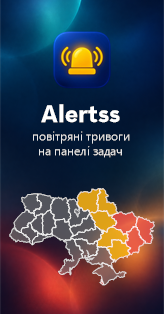
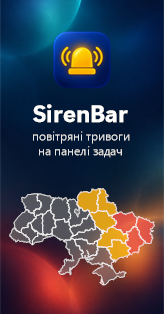
Перейменування: Alertss → SirenBar (0.2.0)
Нова назва exe, вікон, автозапуску, ідентифікатора сповіщень, папок
встановлення й налаштувань. При першому запуску програма переносить
конфіг (область, токен) і автозапуск зі старої назви; інсталятор
тихо видаляє стару Alertss.

Changed region(s): [[0.1829, 0.3153, 0.7927, 0.4013]]

diff --git a/src/autostart.rs b/src/autostart.rs
@@ -1,4 +1,4 @@
-//! "Run at Windows startup" via HKCU\Software\Microsoft\Windows\CurrentVersion\Run, value "Alertss".
+//! "Run at Windows startup" via HKCU\Software\Microsoft\Windows\CurrentVersion\Run, value "SirenBar".
 
 use windows::core::w;
 use windows::Win32::System::Registry::*;
@@ -9,7 +9,7 @@ pub fn is_enabled() -> bool {
         RegGetValueW(
             HKEY_CURRENT_USER,
             w!("Software\\Microsoft\\Windows\\CurrentVersion\\Run"),
-            w!("Alertss"),
+            w!("SirenBar"),
             RRF_RT_REG_SZ,
             None,
             None,
@@ -31,7 +31,7 @@ pub fn set_enabled(on: bool) {
                     let _ = RegSetKeyValueW(
                         HKEY_CURRENT_USER,
                         w!("Software\\Microsoft\\Windows\\CurrentVersion\\Run"),
-                        w!("Alertss"),
+                        w!("SirenBar"),
                         REG_SZ.0,
                         Some(utf16.as_ptr() as *const _),
                         (utf16.len() * std::mem::size_of::<u16>()) as u32,
@@ -42,8 +42,35 @@ pub fn set_enabled(on: bool) {
             let _ = RegDeleteKeyValueW(
                 HKEY_CURRENT_USER,
                 w!("Software\\Microsoft\\Windows\\CurrentVersion\\Run"),
-                w!("Alertss"),
+                w!("SirenBar"),
             );
         }
+    }
+}
+
+/// The app used to be called Alertss: drop its autostart value and its notification id,
+/// and keep autostart on under the new name if the old one had it.
+pub fn migrate_old() {
+    unsafe {
+        let mut size = 0u32;
+        let had = RegGetValueW(
+            HKEY_CURRENT_USER,
+            w!("Software\\Microsoft\\Windows\\CurrentVersion\\Run"),
+            w!("Alertss"),
+            RRF_RT_REG_SZ,
+            None,
+            None,
+            Some(&mut size),
+        )
+        .is_ok();
+        if had {
+            let _ = RegDeleteKeyValueW(
+                HKEY_CURRENT_USER,
+                w!("Software\\Microsoft\\Windows\\CurrentVersion\\Run"),
+                w!("Alertss"),
+            );
+            set_enabled(true);
+        }
+        let _ = RegDeleteTreeW(HKEY_CURRENT_USER, w!("Software\\Classes\\AppUserModelId\\Alertss.Widget"));
     }
 }

diff --git a/src/notify.rs b/src/notify.rs
@@ -6,17 +6,17 @@ use windows::UI::Notifications::{ToastNotification, ToastNotificationManager};
 use windows::Win32::System::Registry::*;
 use windows::Win32::UI::Shell::SetCurrentProcessExplicitAppUserModelID;
 
-const DISPLAY_NAME: &str = "Тривоги";
+const DISPLAY_NAME: &str = "SirenBar";
 
-/// Register AUMID "Alertss.Widget" under HKCU\Software\Classes\AppUserModelId\Alertss.Widget
-/// (DisplayName = "Тривоги") and call SetCurrentProcessExplicitAppUserModelID. Errors ignored.
+/// Register AUMID "SirenBar.Widget" under HKCU\Software\Classes\AppUserModelId\SirenBar.Widget
+/// (DisplayName = "SirenBar") and call SetCurrentProcessExplicitAppUserModelID. Errors ignored.
 pub fn init() {
     unsafe {
         // Write DisplayName value
         let display_name_utf16: Vec<u16> = DISPLAY_NAME.encode_utf16().chain(std::iter::once(0)).collect();
         let _ = RegSetKeyValueW(
             HKEY_CURRENT_USER,
-            w!("Software\\Classes\\AppUserModelId\\Alertss.Widget"),
+            w!("Software\\Classes\\AppUserModelId\\SirenBar.Widget"),
             w!("DisplayName"),
             REG_SZ.0,
             Some(display_name_utf16.as_ptr() as *const _),
@@ -25,7 +25,7 @@ pub fn init() {
     }
 
     // Set the AUMID for the process
-    let _ = unsafe { SetCurrentProcessExplicitAppUserModelID(w!("Alertss.Widget")) };
+    let _ = unsafe { SetCurrentProcessExplicitAppUserModelID(w!("SirenBar.Widget")) };
 }
 
 /// Show a toast. `sound` = false -> silent. Must not panic; errors ignored.
@@ -51,7 +51,7 @@ pub fn show(title: &str, body: &str, sound: bool) {
         xml_doc.LoadXml(&HSTRING::from(&toast_xml))?;
 
         let toast = ToastNotification::CreateToastNotification(&xml_doc)?;
-        let notifier = ToastNotificationManager::CreateToastNotifierWithId(&HSTRING::from("Alertss.Widget"))?;
+        let notifier = ToastNotificationManager::CreateToastNotifierWithId(&HSTRING::from("SirenBar.Widget"))?;
         notifier.Show(&toast)?;
 
         Ok(())

diff --git a/src/config.rs b/src/config.rs
@@ -1,4 +1,4 @@
-//! Persistent settings in %APPDATA%\alertss\config.json.
+//! Persistent settings in %APPDATA%\SirenBar\config.json.
 
 use std::fs;
 use std::path::PathBuf;
@@ -53,7 +53,7 @@ impl Config {
 }
 
 impl Config {
-    /// Full path of the config file (%APPDATA%\alertss\config.json).
+    /// Full path of the config file (%APPDATA%\SirenBar\config.json).
     pub fn path() -> PathBuf {
         config_path().unwrap_or_else(|| PathBuf::from("config.json"))
     }
@@ -61,6 +61,18 @@ impl Config {
 
 fn config_path() -> Option<PathBuf> {
     std::env::var("APPDATA").ok().map(|appdata| {
-        PathBuf::from(appdata).join("alertss").join("config.json")
+        PathBuf::from(appdata).join("SirenBar").join("config.json")
     })
+}
+
+/// The app used to be called Alertss: carry its settings (region, token) over once.
+pub fn migrate_old() {
+    let (Some(new), Ok(appdata)) = (config_path(), std::env::var("APPDATA")) else { return };
+    let old = PathBuf::from(appdata).join("alertss").join("config.json");
+    if !new.exists() && old.exists() {
+        if let Some(dir) = new.parent() {
+            let _ = fs::create_dir_all(dir);
+        }
+        let _ = fs::copy(&old, &new);
+    }
 }

diff --git a/src/main.rs b/src/main.rs
@@ -37,7 +37,7 @@ fn main() {
 
     unsafe {
         // Single instance.
-        let _mutex = CreateMutexW(None, true, w!("Local\\AlertssTaskbarWidget"));
+        let _mutex = CreateMutexW(None, true, w!("Local\\SirenBarTaskbarWidget"));
         if GetLastError() == ERROR_ALREADY_EXISTS {
             return;
         }
@@ -45,11 +45,13 @@ fn main() {
         let _ = SetProcessDpiAwarenessContext(DPI_AWARENESS_CONTEXT_PER_MONITOR_AWARE_V2);
         let _ = CoInitializeEx(None, COINIT_APARTMENTTHREADED);
 
+        config::migrate_old();
+        autostart::migrate_old();
         APP.with(|a| *a.borrow_mut() = Some(App::new(config::Config::load())));
         notify::init();
 
         let hinstance: HINSTANCE = GetModuleHandleW(None).unwrap().into();
-        let class = w!("AlertssMain");
+        let class = w!("SirenBarMain");
         let wc = WNDCLASSW {
             lpfnWndProc: Some(main_wndproc),
             hInstance: hinstance,
@@ -63,7 +65,7 @@ fn main() {
         let main = CreateWindowExW(
             WINDOW_EX_STYLE(WS_EX_TOOLWINDOW.0),
             class,
-            w!("Alertss"),
+            w!("SirenBar"),
             WS_POPUP,
             0,
             0,

diff --git a/src/flyout.rs b/src/flyout.rs
@@ -155,7 +155,7 @@ fn open() {
 fn create_window() -> Option<HWND> {
     unsafe {
         let hinstance: HINSTANCE = GetModuleHandleW(None).ok()?.into();
-        let class = w!("AlertssFlyout");
+        let class = w!("SirenBarFlyout");
         let wc = WNDCLASSW {
             lpfnWndProc: Some(wndproc),
             hInstance: hinstance,
@@ -167,7 +167,7 @@ fn create_window() -> Option<HWND> {
         let h = CreateWindowExW(
             WS_EX_TOOLWINDOW | WS_EX_TOPMOST,
             class,
-            w!("Alertss"),
+            w!("SirenBar"),
             WS_POPUP | WS_THICKFRAME,
             0,
             0,

diff --git a/build.rs b/build.rs
@@ -8,7 +8,7 @@ fn main() {
     let gnu = std::env::var("CARGO_CFG_TARGET_ENV").as_deref() == Ok("gnu");
     if std::env::var_os("CARGO_CFG_WINDOWS").is_some() && !gnu {
         embed_manifest(
-            new_manifest("Alertss.Widget").dpi_awareness(DpiAwareness::PerMonitorV2),
+            new_manifest("SirenBar.Widget").dpi_awareness(DpiAwareness::PerMonitorV2),
         )
         .expect("unable to embed manifest");
     }

diff --git a/src/widget.rs b/src/widget.rs
@@ -28,7 +28,7 @@ use crate::state::{short_region, with_app, Level, Status};
 use crate::icons::{self, Icon};
 use crate::{theme, util};
 
-const CLASS_NAME: PCWSTR = w!("AlertssTaskbarWidget");
+const CLASS_NAME: PCWSTR = w!("SirenBarTaskbarWidget");
 const TIMER_PULSE: usize = 1;
 const PULSE_MS: u32 = 40;
 /// Length of one pulse cycle in milliseconds.
